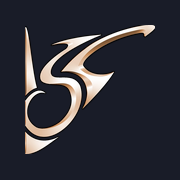
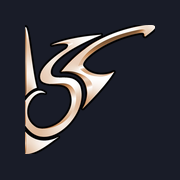
Tab-Symbol: der Marke einen Rand geben und dem Bogen Substanz
Der feine Strich war zurück, weil die vorige Verstärkung viel zu klein
war, um bei Tab-Größe etwas auszurichten: 26px auf eine 1440px-Zeichnung
sind 0,3px, sobald der Browser sie auf 16 herunterrechnet.

Nachgemessen ist der Bogen auch kein auslaufender Strich, sondern hält ab
65% der Breite gleichbleibend 76-86px — also 0,85px im Tab, und unter
einem Bildpunkt liest sich alles als Kratzer. 0,030 hebt ihn auf etwa
1,2px bei 16 und 2,4px bei 32, der Größe, die ein Tab auf einem feinen
Bildschirm tatsächlich zeichnet.

Die Obergrenze sind die Öffnungen der Marke: ab 0,045 schließen sie sich,
ab 0,055 verschmilzt der Ring mit dem Bogen und übrig bleibt ein
schwarzes Dreieck. Zwölf Kombinationen aus Rand und Kontur wurden bei 16
und 32 unter beiden Farbschemata gerendert, bevor diese gewählt wurde.

Dazu der unsichtbare Rahmen, nach dem die Autorin gefragt hatte: 0,09 der
längsten Seite. Gemessen an der Tinte in der äußersten Bildpunktreihe,
wo 0,95 eine harte Kante bedeutet, geht sie von 0,95 auf 0,11 bei 16px
und 0,00 bei 32px zurück. Nichts berührt mehr einen Rand.

Kontrast unverändert hoch: 15,6:1 gegen eine helle Leiste, 13,4:1 gegen
eine dunkle.

Claude-Session: https://claude.ai/code/session_01HF7vXvwEmPnG3NnJaYX9Yd

diff --git a/scripts/build-icons.py b/scripts/build-icons.py
@@ -42,17 +42,34 @@ NAVY = (25, 28, 40, 255)
 
 # How much weight to add around the mark, as a fraction of its longest side.
 #
-# The arc tapers to a hairline at its right end. Fitted whole into a 16px tile
-# that end reads as a stray scratch rather than as part of the mark. Padding
-# does not help — it only makes everything smaller, and a shorter hairline is
-# still a hairline. Weight does: an outline in the fill's own colour thickens
-# the thin passages until they carry as strokes.
+# The arc is not a taper. Measured across the mark, from 65% of the width
+# onward it holds a steady 76-86px of a 1440px drawing — which is 0.85px once
+# a tab scales it to 16, and under a pixel is what makes it read as a stray
+# scratch instead of as part of the mark.
 #
-# 0.018 was chosen by measuring rather than by eye. It lifts coverage of a 16px
-# tile from 29% to 38% while the counters stay open: the ring and the hollow of
-# the arc still register as holes, which is what stops the mark collapsing into
-# a blob.
-ICON_STROKE = 0.018
+# 0.018 was too small to do anything about that: it added 0.2px at tab size.
+# 0.030 lifts the arc to about 1.2px at 16 and 2.4px at 32 — the size a tab
+# actually renders on a high-resolution screen — so it carries as a stroke.
+#
+# The ceiling is the counters. Rendered at 32px, weight past 0.045 closes the
+# gaps inside the mark and from 0.055 the ring merges with the arc, leaving a
+# black triangle. Six weights were rendered at 16 and 32 under both colour
+# schemes before choosing.
+ICON_STROKE = 0.030
+
+# Margin held around the mark inside the tab icon's own box, as a fraction of
+# its longest side.
+#
+# Without it the drawing ends exactly on the edge of the icon, so the arc runs
+# off the side and the mark reads as cut rather than as placed. This is the
+# invisible box around it.
+#
+# Measured on the rendered tile as how much ink lands in the outermost row of
+# pixels, where 0.95 is a hard edge: no margin leaves 0.95, 0.06 still leaves
+# 0.42, and 0.09 brings it to 0.11 — the last of it the antialiased edge
+# rather than the drawing. Half the outline above has to fit inside this too,
+# and does, with room to spare.
+ICON_PAD = 0.09
 
 
 def trimmed_mark() -> Image.Image:
@@ -121,8 +138,10 @@ def main() -> None:
 
     d, w, h = silhouette_path(mark)
     stroke = round(max(w, h) * ICON_STROKE, 1)
+    pad = round(max(w, h) * ICON_PAD)
     (APP / "icon.svg").write_text(
-        f'<svg xmlns="http://www.w3.org/2000/svg" viewBox="0 0 {w} {h}">'
+        "<svg xmlns=\"http://www.w3.org/2000/svg\" "
+        f'viewBox="{-pad} {-pad} {w + 2 * pad} {h + 2 * pad}">'
         "<style>"
         "path{fill:#111114;stroke:#111114}"
         "@media(prefers-color-scheme:dark){path{fill:#f3ece5;stroke:#f3ece5}}"
